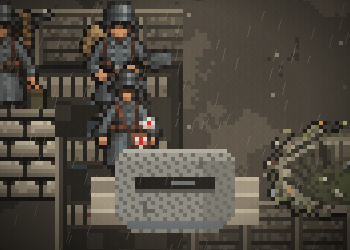
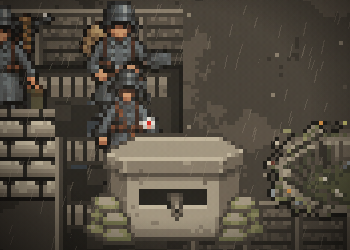
Bunkry PILLBOXES z PixelLabu (zepředu i zezadu), záblesky kulometu z průzoru
Claude-Session: https://claude.ai/code/session_01VWWMSwJGFZow7tBNcmKaEZ

diff --git a/web/src/orders-fx.js b/web/src/orders-fx.js
@@ -2,9 +2,10 @@
 //  • DUGOUTS  – hluboké kryty proti bombardování: u zálohy strany stojí pytlové kryty s trámovým vchodem a hlínou (jen po dobu rozkazu),
 //  • DOCTOR   – u obvaziště / nemocnice se mezi raněnými prochází lékař v bílém plášti (sprite zdravotníka, červený kříž nad hlavou).
 //  • AMMO    – sklad munice v týlu vedle obvaziště: bedny, police s náboji, plachta a pytlový val (mechanika zvyšuje palbu vlastních střelců),
-//  • PILLBOXES – betonové kulometné bunkry v přední linii (nápad Hegemonie z Rady fronty): kulometčíci a odstřelovači střílí víc (rozkaz `fire`).
+//  • PILLBOXES – betonové kulometné bunkry (obrázek z PixelLabu) v přední linii (nápad Hegemonie z Rady fronty): kulometčíci a odstřelovači střílí víc (rozkaz `fire`).
 // V dev režimu jde vyzkoušet bez hlasování: /?orders=0:DUGOUTS,0:DOCTOR  (strana:heslo).
 import { Container, Graphics, Sprite, Texture } from 'pixi.js';
+import { loadTexture } from './assets.js';
 
 const C = { ink: 0x0e0d0c, mud0: 0x2b2722, mud1: 0x3d3730, mud2: 0x524a3f, mud3: 0x6b6152, sand: 0x857a68, bone: 0xa39782, pale: 0xc4b8a0, white: 0xe3d9c3, rust: 0x7e3b2a, steel: 0x666d70 };
 
@@ -150,6 +151,8 @@ export function initOrderFx({ world, anchor, roster, map, tex, anims, hospitals,
 
   const pbTop = new Container(); // bunkry před valem (nad pytli)
   world.addChild(pbTop);
+  const pbs = []; // bunkry: záblesky kulometu v update()
+  const flash = new Graphics();
   // --- PILLBOXES: betonové bunkry v přední linii před stanovišti, ~jeden na 10 stanovišť otevřené části fronty ---
   theme.factions.forEach((_, f) => {
     if (!has('PILLBOXES', f)) return;
@@ -159,18 +162,37 @@ export function initOrderFx({ world, anchor, roster, map, tex, anims, hospitals,
     for (const sl of slots) {
       if (sl.x - lastX < 300) continue;
       lastX = sl.x;
-      const s = new Sprite(pillboxTexture(f, Math.round(sl.x) % 7));
+      const s = new Sprite(pillboxTexture(f, Math.round(sl.x) % 7)); // kreslená náhrada, než se načte obrázek z PixelLabu
+      // obrázky z PixelLabu (15. 11.): zepředu s průzorem (strana míří dolů, vidíme čelo), zezadu se vchodem (strana míří nahoru)
+      loadTexture(toEnemy > 0 ? '/assets/props/pillbox.png' : '/assets/props/pillbox_back.png').then((t) => { s.texture = t; }).catch(() => {});
+      pbs.push({ s, front: toEnemy > 0, t0: (Math.round(sl.x) * 37) % 4000 });
       s.anchor.set(0.5, 0.5);
       s.x = Math.round(sl.x + 14); s.y = Math.round(sl.y + toEnemy * 18);
       // bunkr před valem: u strany, která míří dolů, leží před pytli (nad nimi); u druhé ho zakryjí vojáci v zákopu
       (toEnemy > 0 ? pbTop : layer).addChild(s);
     }
   });
+  if (pbs.length) { world.addChild(flash); }
   let raised = false;
   return {
     shelters: [...layer.children, ...pbTop.children],
     docs,
     update(now, view) {
+      // kulomet v bunkru střílí dávkami: každé ~3 s dávka 6 záblesků z průzoru (u bunkru zezadu je záblesk vidět nad střechou)
+      if (pbs.length) {
+        flash.clear();
+        for (const p of pbs) {
+          const { s } = p;
+          if (view && (s.x < view.x0 - 40 || s.x > view.x1 + 40 || s.y < view.y0 - 40 || s.y > view.y1 + 40)) continue;
+          const u = (now + p.t0) % 3000;
+          if (u > 900) continue; // mezi dávkami ticho
+          if (Math.floor(u / 70) % 2) continue; // záblesk / pauza
+          const x = s.x, y = p.front ? s.y + 7 : s.y - 17, k = Math.floor(u / 140) % 2;
+          flash.rect(x - 2, y - 1, 4, 3).fill({ color: 0xffe9a8 });
+          flash.rect(x - 1 - k, y + (p.front ? 2 : -3), 2 + 2 * k, 2).fill({ color: 0xf2a43a });
+          flash.rect(x - 3, y, 1, 1).fill({ color: 0xf2a43a }); flash.rect(x + 2, y, 1, 1).fill({ color: 0xf2a43a });
+        }
+      }
       if (!raised && docs.length) { raised = true; world.setChildIndex(top, world.children.length - 1); } // lékař nad vojáky
       for (const d of docs) {
         const T = 9000, u = ((now + d.t0) % (2 * T)) / T; // tam a zpět

diff --git a/art/pixellab/LOG.md b/art/pixellab/LOG.md
@@ -126,3 +126,6 @@ Příkaz: `python tools/pixellab.py pm <postava> <název> <směr> <snímek> "<po
 - plazení zepředu: start ze snímku lehnutí (`*@prone_south_8.png`), „crawling on the belly toward the viewer, left and right elbows pulling forward in turn, both arms always visible“
 - odstřelovač z boku: start `concord_sniper_east.png` (statická herní póza), „raises the rifle to the shoulder, aims to the right and fires one shot with recoil, then lowers it“
 - kulometčík: start `hegemony_machinegunner@crouch_south_0.png`, „fires the machine gun held in both hands at the hip toward the viewer, the gun shakes with rapid recoil“
+| pillbox/pillbox_0.png (48×32, betonový bunkr, style hedgehog) | create_image_pro_flash | d42e4cc4… | 5 | ✗ neurčitý tvar |
+| pillbox/pillbox_1.png → props/pillbox.png (zepředu, průzor s hlavní) | create_image_pro_flash, paleta | 8abded37… | 5 | ✔ (15. 11., hlasování PILLBOXES) |
+| pillbox/pillbox_back.png → props/pillbox_back.png (zezadu, vchod se schody; Concord) | create_image_pro_flash + style pillbox_1 | 535be0cf… | 5 | ✔ |
